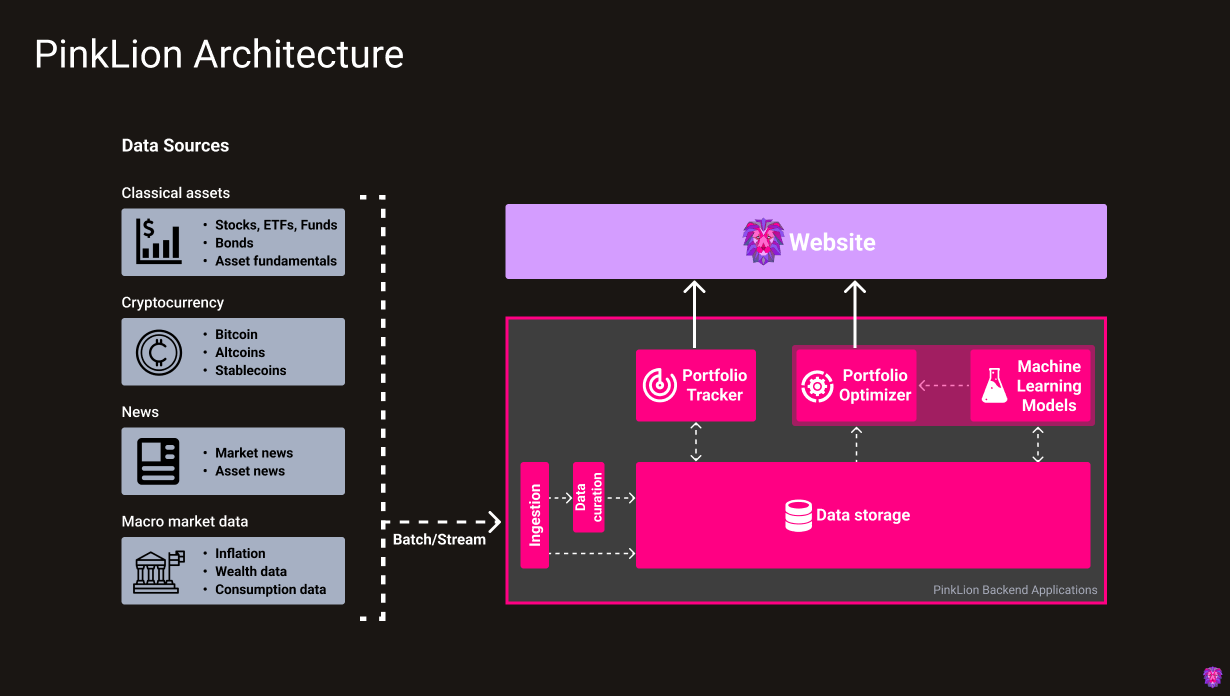
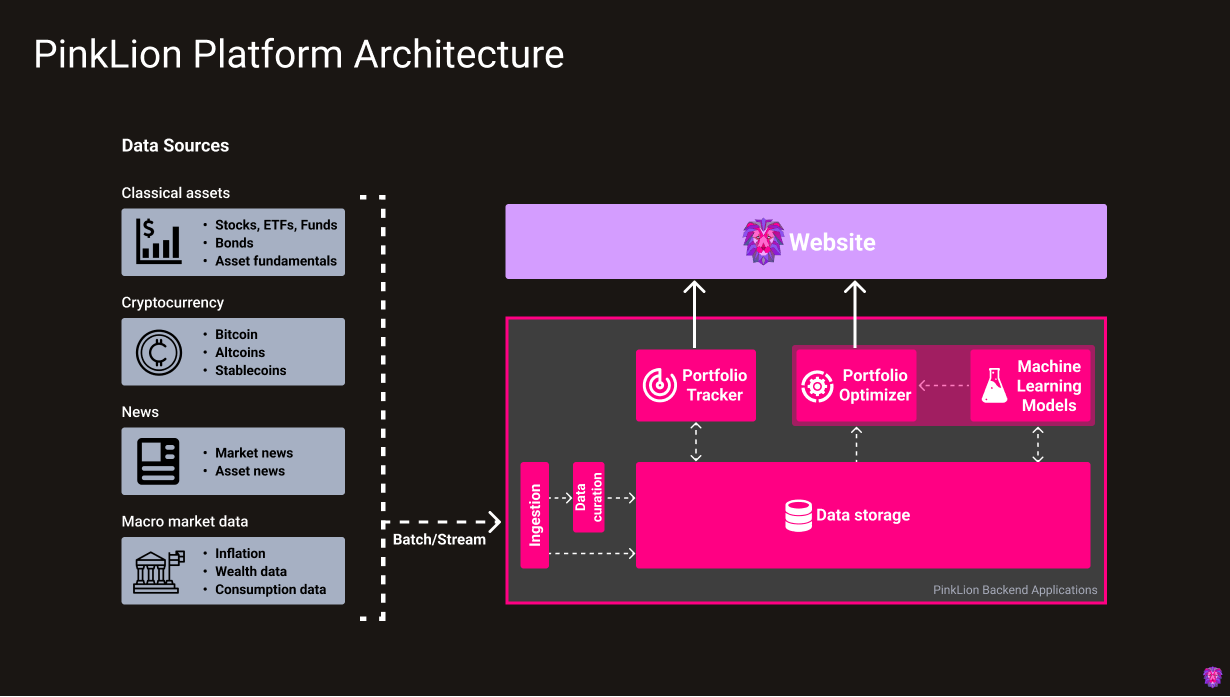
Index page updates

Changed region(s): [[0.0309, 0.0603, 0.4634, 0.1205]]

diff --git a/docs/index.md b/docs/index.md
@@ -1,17 +1,38 @@
+---
+hide:
+  - toc
+---
+
 # Home
+### Transparency is key.
 
-For full documentation visit [mkdocs.org](https://www.mkdocs.org).
+PinkLion has been build to enable people to make better investment decision. PinkLion improves financial asset portfolios by providing insights of how risk can be optimaly structured and lowered, as well as how it is possible to achieve more stable and increased asset returns. 
 
-## System architecture
+Trust and factual clarity is an integral part of the process when facing an investment decision.
 
-* `mkdocs new [dir-name]` - Create a new project.
-* `mkdocs serve` - Start the live-reloading docs server.
-* `mkdocs build` - Build the documentation site.
-* `mkdocs -h` - Print help message and exit.
+Thus we are providing a detailed documentation for every single components that comprise the PinkLion Platform. In addition, we provide a in-depth explaination of how each platform component works and functions.
+
+Below find links to resources and technical documentation.
+
+
+## Platform architecture
+### Explore PinkLion's, API-first architecture
+
+The PinkLion Platform is a micro-service architecture with multiple services. Learn more about each service and the capability it provides.
+
+<figure markdown>
+  ![Image title](assets/img/High-Level Architecture PinkLion.png)
+  <figcaption>High-level platform architecture and applications comprising PinkLion</figcaption>
+</figure>
+
+
 
 ## Portfolio Optimizer
 
-    mkdocs.yml    # The configuration file.
-    docs/
-        index.md  # The documentation homepage.
-        ...       # Other markdown pages, images and other files.
+### Learn About PinkLion's Portfolio Optimizer
+
+
+<figure markdown>
+  ![Image title](assets/img/Portfolio Optimizer PinkLion.png)
+  <figcaption>High-level portfolio optimizer architecture of PinkLion</figcaption>
+</figure>

diff --git a/docs/portfolio-optimizer.md b/docs/portfolio-optimizer.md
@@ -2,5 +2,5 @@
 
 <figure markdown>
   ![Image title](assets/img/Portfolio Optimizer PinkLion.png)
-  <figcaption>High-level portfolio optimizer of PinkLion</figcaption>
+  <figcaption>High-level portfolio optimizer architecture of PinkLion</figcaption>
 </figure>

diff --git a/docs/platform-architecture.md b/docs/platform-architecture.md
@@ -1,0 +1,6 @@
+# Platform architecture
+
+<figure markdown>
+  ![Image title](assets/img/High-Level Architecture PinkLion.png)
+  <figcaption>High-level platform architecture and applications comprising PinkLion</figcaption>
+</figure>
